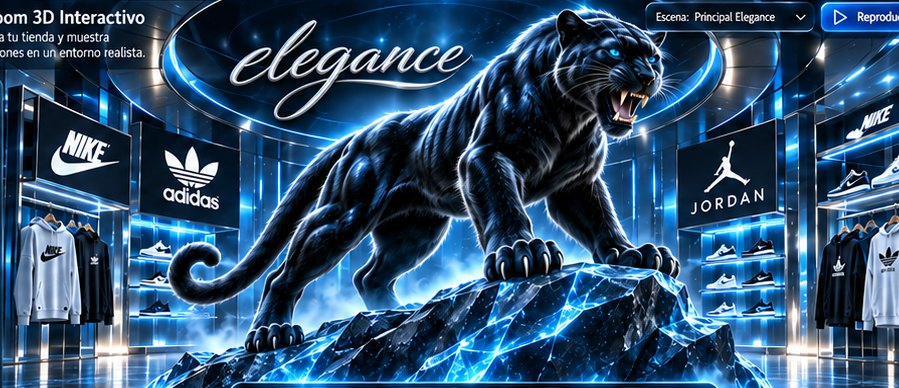
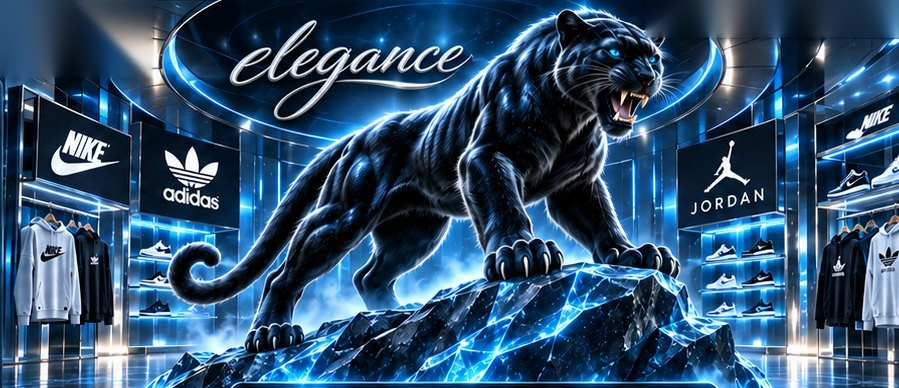
feat: Elegance Showroom V4 polished motion and real catalog controls
* feat(showroom): V4 responsive moving panther details, licensed sound and real archive brand filters

* fix(showroom): clean embedded screenshot controls while preserving the panther and scene

* test(showroom): check V4 licensed roar controls, real provisional brand filters and mobile layout

* fix(showroom): animation, lighting, and roar feedback in browsers without WebGL

Changed region(s): [[0.0, 0.0, 0.1869, 0.2165], [0.7164, 0.0, 1.0, 0.1237]]

diff --git a/showroom.html b/showroom.html
@@ -27,7 +27,7 @@ main{min-width:0;padding:18px 22px 34px}.topbar{display:flex;align-items:center;
 .catalog-top button,.catalog-filters button,.catalog-pages button{border:1px solid #75bdf6;color:#e2f5ff;background:#103d65;border-radius:10px;min-height:40px;padding:9px 13px;cursor:pointer}
 .catalog-top button:hover,.catalog-filters button:hover,.catalog-pages button:hover{background:#165b8c}
 .catalog-body{padding:14px 18px 20px}
-.catalog-filters{display:grid;grid-template-columns:minmax(160px,2.3fr) minmax(100px,1fr) minmax(100px,1fr) auto;gap:9px;align-items:end}
+.catalog-filters{display:grid;grid-template-columns:minmax(155px,2fr) minmax(100px,1fr) minmax(100px,1fr) minmax(95px,.8fr) auto;gap:9px;align-items:end}
 .catalog-filters label{font-size:11px;color:#bcddf3;display:grid;gap:5px}
 .catalog-filters input,.catalog-filters select{width:100%;min-width:0;padding:10px;border:1px solid #5687b1;background:#091b30;color:#eaf6ff;border-radius:9px;min-height:42px}
 .catalog-notice{font-size:12px;line-height:1.55;color:#a7cde5;margin:13px 0}
@@ -47,6 +47,22 @@ main{min-width:0;padding:18px 22px 34px}.topbar{display:flex;align-items:center;
 @media(max-width:850px){.catalog-results{grid-template-columns:repeat(3,minmax(0,1fr))}}
 @media(max-width:630px){.catalog-drawer{max-height:98dvh;width:100vw;max-width:100vw;border-radius:12px}.catalog-top{padding:10px 12px}.catalog-top h2{font-size:26px}.catalog-body{padding:11px}.catalog-filters{grid-template-columns:1fr 1fr}.catalog-filters label:first-child{grid-column:1/-1}.catalog-results{grid-template-columns:repeat(2,minmax(0,1fr));gap:8px}.catalog-item-main{padding:8px}.catalog-item-main strong{font-size:11px}.catalog-filters button{min-height:42px}}
 @media(prefers-reduced-motion:reduce){.btn3d,.catalog-item{transition:none!important}}
+
+/* V4 – tactile independent controls; same approved composition. */
+.btn3d,.nav button,.preset,.catalog-item-main button{touch-action:manipulation}
+.btn3d:focus-visible,.nav button:focus-visible,.preset:focus-visible,.catalog-item-main button:focus-visible{outline:2px solid #aeeeff;outline-offset:3px}
+.btn3d{transform-style:preserve-3d;box-shadow:inset 0 1px 0 #e4faffae,inset 1px 0 0 #aeedff36,0 4px 0 #08243e,0 8px 12px #0009,0 0 10px #27b7ff22!important}
+.btn3d:hover{transform:translateY(-2px) rotateX(4deg);box-shadow:inset 0 1px 0 #fff,0 6px 0 #08243e,0 11px 17px #000a,0 0 16px #27b7ff7c!important}
+.btn3d:active,.btn3d[aria-pressed="true"]{transform:translateY(3px) rotateX(-2deg);box-shadow:inset 0 3px 9px #000b,0 1px 0 #08243e,0 0 14px #27b7ff7c!important}
+#roar[aria-pressed="true"]{border-color:#e4f6ff;background:linear-gradient(135deg,#4488d2,#164679);animation:roarGlow .46s ease-in-out infinite alternate}
+@keyframes roarGlow{from{filter:brightness(.95)}to{filter:brightness(1.33)}}
+/* Canvas fallback must remain alive when the browser disallows GPU acceleration. */
+.scene-viewport.motion-paused #scene,.scene-viewport.motion-disabled #scene{animation-play-state:paused!important}
+.scene-viewport.roaring.is-fallback #scene{animation:roarShake .16s ease-in-out 13 alternate!important;transform-origin:68% 30%}
+@keyframes roarShake{0%{transform:translate(-.2%,.05%) scale(1.025)}100%{transform:translate(.45%,-.65%) scale(1.045)}}
+.scene-viewport.is-fallback #scene{animation:fallbackLook 4.3s ease-in-out infinite alternate;transform-origin:52% 48%;background-size:105% 105%!important;background-repeat:no-repeat;filter:brightness(1.04) saturate(1.04)}
+@keyframes fallbackLook{0%{transform:scale(1.00) translate(-.25%,.25%);background-position:49% 49%}100%{transform:scale(var(--breath-scale,1.025)) translate(.3%,-.3%);background-position:51% 51%}}
+@media(prefers-reduced-motion:reduce){.scene-viewport.is-fallback #scene,#roar[aria-pressed="true"]{animation:none!important}.btn3d,.nav button,.preset{transition:none!important}}
 </style></head><body>
 <div class="shell">
 <aside class="sidebar"><div class="brand" aria-label="elegance">elegance</div><div class="subbrand">SHOWROOM · ICE EDITION</div>
@@ -62,31 +78,32 @@ main{min-width:0;padding:18px 22px 34px}.topbar{display:flex;align-items:center;
 <button data-panel="Ajustes"><span class="icon">⚙</span>Ajustes</button>
 </nav><div class="sidebar-bottom"><a href="https://elegancemx-14c.pages.dev/?administrador=1" target="_blank" rel="noopener noreferrer">↗ Administrador real</a><a href="https://elegancemx-14c.pages.dev/" target="_blank" rel="noopener noreferrer">↗ Ver tienda</a><small>Vista de diseño aislada · no modifica la tienda</small></div></aside>
 <main>
-<header class="topbar"><label class="search"><span aria-hidden="true">⌕</span><input type="search" id="search" placeholder="Buscar en el panel y las colecciones…" aria-label="Buscar secciones y colecciones"></label><div class="account"><span class="avatar">♜</span><span><b>elegance</b><small>Vista conectada · versión de prueba</small></span></div></header>
+<header class="topbar"><label class="search"><span aria-hidden="true">⌕</span><input type="search" id="search" placeholder="Buscar en el panel y las colecciones…" aria-label="Buscar secciones y colecciones"></label><div class="account"><span class="avatar">♜</span><span><b>elegance</b><small>Escena visual · archivo público</small></span></div></header>
 <section class="stats" aria-label="Estado del catálogo documentado"><div class="stat"><i>▤</i><div><strong><span id="live-total">3,929</span></strong><small>Referencias del archivo</small></div></div><div class="stat"><i>◇</i><div><strong><span id="live-photos">3,909</span></strong><small>Fotografías del archivo</small></div></div><div class="stat"><i>▷</i><div><strong><span id="live-videos">20</span></strong><small>Videos históricos</small></div></div><div class="stat"><i>✓</i><div><strong><span id="live-verified">0</span></strong><small>Artículos verificados</small></div></div></section>
 <div class="workspace"><section class="glass stagecard" aria-label="Escena interactiva">
 <div class="sectionbar"><div><h2>Showroom interactivo</h2><p>Composición aprobada · controles reconstruidos</p></div><div class="stagemenu"><select id="scene-preset" aria-label="Escoger ambiente"><option value="ice">Azul hielo</option><option value="night">Nocturno</option><option value="sunset">Atardecer</option><option value="pearl">Blanco perla</option></select><button id="play" class="btn3d" aria-pressed="true">❚❚ Pausar</button></div></div>
-<div class="scene-viewport" id="view" aria-label="Pantera fotográfica con animación 2.5D y cámara interactiva; usa arrastre o botones para cambiar vista" role="group">
+<div class="scene-viewport" id="view" aria-label="Pantera fotográfica original con deformación animada 2.5D; usa arrastre o botones para variar la perspectiva aproximada" role="group">
 <div class="scene-layer" id="scene-layer"><canvas id="scene" width="900" height="390"></canvas></div>
-<div class="stage-overlay"><div class="overlay-top"><span class="hint"><span class="led"></span> <b>ESCENA ICE</b> · ANIMACIÓN 2.5D</span><span class="hint" id="camera-state">Vista frontal</span></div><div class="overlay-bottom"><div class="group" role="group" aria-label="Ángulos de cámara"><span>Cámara</span><button data-view="front" class="btn3d secondary" aria-pressed="true">Frontal</button><button data-view="left" class="btn3d secondary" aria-pressed="false">Lateral</button><button data-view="high" class="btn3d secondary" aria-pressed="false">Superior</button><button data-view="reset" class="btn3d secondary">⟲</button></div><div class="pulse-label"><span class="led"></span> Arrastra para mover cámara</div></div></div>
+<div class="stage-overlay"><div class="overlay-top"><span class="hint"><span class="led"></span> <b>ESCENA ICE</b> · PANORAMA ANIMADO 2.5D</span><span class="hint" id="camera-state">Vista frontal</span></div><div class="overlay-bottom"><div class="group" role="group" aria-label="Ángulos de cámara"><span>Cámara</span><button data-view="front" class="btn3d secondary" aria-pressed="true">Frontal</button><button data-view="left" class="btn3d secondary" aria-pressed="false">Lateral</button><button data-view="high" class="btn3d secondary" aria-pressed="false">Superior</button><button data-view="reset" class="btn3d secondary">⟲</button></div><div class="pulse-label"><span class="led"></span> Arrastra para mover cámara</div></div></div>
 <div id="statepane" class="statepane" aria-live="polite"><button class="btn3d secondary pane-close" id="pane-close">✕ Volver</button><span class="badge">NAVEGACIÓN FUNCIONAL</span><h3 id="pane-title"></h3><p id="pane-body"></p><div class="pane-tabs" id="pane-actions"></div></div>
 </div>
-<div class="stage-footer"><small id="scene-status">WebGL activo al cargar · composición conservada</small><div class="actions"><button class="btn3d secondary" id="reset">Restablecer</button><button class="btn3d secondary" id="export">Exportar ajustes</button><button class="btn3d" id="admin">↗ Gestionar mercancía</button></div></div>
+<div class="stage-footer"><small id="scene-status">Cargando escena · composición conservada</small><div class="actions"><button class="btn3d secondary" id="reset">Restablecer</button><button class="btn3d secondary" id="export">Exportar ajustes</button><button class="btn3d" id="admin">↗ Gestionar mercancía</button></div></div>
 </section><aside class="glass settings"><div class="settingbox"><h3>AMBIENTE DE ESCENA</h3><div class="presets" role="group" aria-label="Iluminación predefinida"><button class="preset" data-preset="ice" aria-pressed="true">❄ Azul hielo</button><button class="preset" data-preset="night" aria-pressed="false">◕ Nocturno</button><button class="preset" data-preset="sunset" aria-pressed="false">◒ Atardecer</button><button class="preset" data-preset="pearl" aria-pressed="false">◊ Perla</button></div><label class="slider"><span>Iluminación <output id="bright-value">75 %</output></span><input id="bright" type="range" min="30" max="140" value="75"></label><label class="slider"><span>Reflejos <output id="glow-value">60 %</output></span><input id="glow" type="range" min="0" max="100" value="60"></label></div>
-<div class="settingbox"><h3>ANIMACIÓN</h3><div class="controlrow"><span>Respiración 2.5D</span><button class="toggle" id="breathe" aria-pressed="true">Sí</button></div><label class="slider"><span>Amplitud <output id="breathe-value">60 %</output></span><input id="breath-amp" type="range" min="0" max="100" value="60"></label><div class="controlrow"><span>Cámara flotante</span><button class="toggle" id="float" aria-pressed="true">Sí</button></div><div style="margin-top:11px"><button class="btn3d" id="roar" style="width:100%">♪ Prueba de rugido</button></div><p class="tiny-note" style="margin-top:10px">El sonido es sintetizado y la respiración es una simulación sobre la imagen. El rugido y la anatomía 3D reales requieren un modelo de pantera articulado.</p></div>
+<div class="settingbox"><h3>ANIMACIÓN</h3><div class="controlrow"><span>Respiración 2.5D</span><button class="toggle" id="breathe" aria-pressed="true">Sí</button></div><label class="slider"><span>Amplitud <output id="breathe-value">60 %</output></span><input id="breath-amp" type="range" min="0" max="100" value="60"></label><div class="controlrow"><span>Cámara flotante</span><button class="toggle" id="float" aria-pressed="true">Sí</button></div><div style="margin-top:11px"><button class="btn3d" id="roar" style="width:100%" aria-label="Reproducir rugido felino con movimiento de mandíbula" aria-pressed="false">◉ Rugido con movimiento</button></div><p class="tiny-note" style="margin-top:10px">Efecto de rugido de tigre CC0 de <a href="https://sfxmint.com/sounds/short-tiger-roar-01" target="_blank" rel="noopener noreferrer">SFXMint</a>, sincronizado con una deformación visual de la mandíbula. No es un modelo anatómico 3D ni una grabación de esta pantera.</p></div>
 <div class="settingbox"><h3>GUARDAR ESCENA</h3><p class="tiny-note">Los cambios visuales se guardan localmente en este navegador. No modifican ventas, archivos ni credenciales.</p><button class="btn3d secondary" id="save" style="margin-top:11px;width:100%">Guardar vista local</button></div>
 </aside></div>
 <section class="lower"><article class="glass upload"><h3>Añadir fotografías a esta vista</h3><label class="dropzone" id="dropzone" for="files"><span class="cloud">☁</span><b>Seleccionar o arrastrar imágenes</b><small>Vista previa local · no se suben a la tienda</small></label><input id="files" type="file" accept="image/*" multiple><div style="margin-top:7px"><a href="https://elegancemx-14c.pages.dev/?administrador=1" target="_blank" rel="noopener noreferrer" style="font-size:11px">Subir mercancía al administrador real ↗</a></div></article>
 <article class="glass"><h3>Archivos seleccionados <small id="file-count" style="color:#89bfdf;font-weight:400">(0)</small></h3><div class="photos" id="photos"><p class="tiny-note">Aquí aparecerán las imágenes que agregues a la vista previa. Ningún archivo sale de tu dispositivo.</p></div></article>
 <article class="glass"><h3>Colecciones destacadas</h3><div class="collections"><div class="collection"><b>NIKE</b><small>COLECCIÓN</small><button class="btn3d secondary" data-brand="Nike">Explorar →</button></div><div class="collection"><b>adidas</b><small>COLECCIÓN</small><button class="btn3d secondary" data-brand="Adidas">Explorar →</button></div><div class="collection"><b>JORDAN</b><small>COLECCIÓN</small><button class="btn3d secondary" data-brand="Jordan">Explorar →</button></div></div></article></section>
-<p class="lower-footer">ELEGANCE SHOWROOM v3 · Los conteos se actualizan desde los datos públicos del catálogo cuando hay conexión; no son métricas de ventas. Imagen de la pantera: composición Elegance aprobada. No se atribuye inventario comercial a fotografías sin verificar.</p>
+<p class="lower-footer">ELEGANCE SHOWROOM v4 · Los conteos se actualizan desde los datos públicos del catálogo cuando hay conexión; no son métricas de ventas. Imagen de la pantera: composición Elegance aprobada. No se atribuye inventario comercial a fotografías sin verificar.</p>
 </main></div>
+<audio id="roar-audio" preload="none" src="https://sfxmint.com/dl/short-tiger-roar-01.mp3" aria-hidden="true"></audio>
 <dialog class="catalog-drawer" id="catalog-drawer" aria-labelledby="catalog-title">
   <div class="catalog-top"><div><small>ARCHIVO FOTOGRÁFICO REAL · ELEGANCE</small><h2 id="catalog-title">elegance · catálogo</h2></div><button type="button" id="catalog-close" aria-label="Cerrar catálogo">✕ Cerrar</button></div>
   <div class="catalog-body">
     <div class="catalog-filters">
       <label>Buscar por referencia o nombre<input id="catalog-search" type="search" placeholder="Tenis, bolsas, gorras, referencia…"></label>
-      <label>Categoría<select id="catalog-category"><option value="">Todas</option></select></label>
+      <label>Categoría<select id="catalog-category"><option value="">Todas</option></select></label><label>Marca sugerida<select id="catalog-brand"><option value="">Todas</option></select></label>
       <label>Orden<select id="catalog-sort"><option value="new">Más recientes</option><option value="old">Más antiguas</option></select></label>
       <button id="catalog-clear" type="button">Limpiar</button>
     </div>
@@ -108,20 +125,28 @@ let reduced=matchMedia('(prefers-reduced-motion: reduce)').matches;
 let canvas=$('#scene'),gl=canvas.getContext('webgl',{alpha:false,antialias:true,premultipliedAlpha:false}),program=null;
 let renderGL=()=>{},im=new Image(); const mobileView=matchMedia('(max-width:540px)').matches; im.src=mobileView?MOBILE:IMAGE;
 function shader(gl,type,source){let s=gl.createShader(type);gl.shaderSource(s,source);gl.compileShader(s);if(!gl.getShaderParameter(s,gl.COMPILE_STATUS))throw Error(gl.getShaderInfoLog(s));return s}
-function createScene(){if(!gl){canvas.style.backgroundImage=`url(${mobileView?MOBILE:IMAGE})`;$('#scene-status').textContent='Imagen panorámica · WebGL no disponible';return}
+function createScene(){if(!gl){canvas.style.backgroundImage=`url(${mobileView?MOBILE:IMAGE})`;$('#view').classList.add('is-fallback');$('#scene-status').textContent='Modo compatible · animación de cámara disponible';sync();return}
 try{
 const vs=shader(gl,gl.VERTEX_SHADER,`attribute vec2 point;varying vec2 uv;void main(){uv=vec2((point.x+1.)*.5,1.-(point.y+1.)*.5);gl_Position=vec4(point,0.,1.);}`);
 const fs=shader(gl,gl.FRAGMENT_SHADER,`precision highp float;varying vec2 uv;uniform sampler2D imageTex;uniform float t;uniform float breathe;uniform float amp;uniform float glow;uniform float bright;uniform float kind;uniform float roar;uniform float mobile;void main(){
 float chest=exp(-pow((uv.x-(mobile>.5?.48:.49))/.177,2.)-pow((uv.y-(mobile>.5?.39:.49))/.27,2.));
-float head=exp(-pow((uv.x-(mobile>.5?.70:.68))/.115,2.)-pow((uv.y-(mobile>.5?.22:.34))/.145,2.));
+float head=exp(-pow((uv.x-(mobile>.5?.70:.68))/.12,2.)-pow((uv.y-(mobile>.5?.22:.21))/.16,2.));
+float jaw=exp(-pow((uv.x-(mobile>.5?.705:.702))/.078,2.)-pow((uv.y-(mobile>.5?.285:.295))/.062,2.));
+float tail=exp(-pow((uv.x-(mobile>.5?.21:.23))/.115,2.)-pow((uv.y-(mobile>.5?.62:.71))/.09,2.));
 float pulse=sin(t*1.6)*breathe*amp;
-vec2 pos=uv;pos.x-=((uv.x-(mobile>.5?.48:.49))*.022*chest*pulse);pos.y-=.006*chest*pulse+.008*head*roar;
+vec2 pos=uv;
+pos.x-=((uv.x-(mobile>.5?.48:.49))*.035*chest*pulse);
+pos.y-=.012*chest*pulse + .006*head*sin(t*.7) + .034*jaw*roar;
+pos.x-=.012*tail*sin(t*1.0);
 pos=clamp(pos,0.,1.);
 vec3 col=texture2D(imageTex,pos).rgb;
 // Illumination is computed in this same image pass; no duplicated panels or overlaid photo.
 float rim=(1.-smoothstep(.1,.95,distance(uv,vec2(.5,.47))));
 col=col*(.40+bright*.008)*vec3(1.+kind*.06,1.-kind*.04,1.-kind*.18);
 col+=vec3(.015,.082,.16)*(glow*.007)*(rim+ .33*sin(t*.7))*1.1;
+float eye=exp(-pow((uv.x-(mobile>.5?.72:.69))/.024,2.)-pow((uv.y-(mobile>.5?.13:.14))/.023,2.));
+float eyelid=pow(max(0.,sin(t*.93+.5)),55.);
+col*=1.-eye*eyelid*.60;
 col=clamp(col,0.,1.);
 gl_FragColor=vec4(col,1.);
 }`);
@@ -131,28 +156,42 @@ let tex=gl.createTexture();gl.bindTexture(gl.TEXTURE_2D,tex);gl.pixelStorei(gl.U
 const uniforms={};for(let name of ['t','breathe','amp','glow','bright','kind','roar','mobile'])uniforms[name]=gl.getUniformLocation(program,name);
 gl.uniform1i(gl.getUniformLocation(program,'imageTex'),0);
 renderGL=(t,roar)=>{gl.viewport(0,0,canvas.width,canvas.height);gl.uniform1f(uniforms.t,t);gl.uniform1f(uniforms.breathe,state.breathe&&!reduced?1:0);gl.uniform1f(uniforms.amp,state.breathAmp/100);gl.uniform1f(uniforms.glow,state.glow);gl.uniform1f(uniforms.bright,state.bright);gl.uniform1f(uniforms.kind,state.preset==='sunset'?1:state.preset==='night'?-1:0);gl.uniform1f(uniforms.roar,roar);gl.uniform1f(uniforms.mobile,mobileView?1:0);gl.drawArrays(gl.TRIANGLES,0,6)};
-$('#scene-status').textContent='WebGL activo · respiración visual · cámara interactiva';
-}catch(e){console.warn('WebGL fallback',e);gl=null;canvas.style.backgroundImage=`url(${mobileView?MOBILE:IMAGE})`;$('#scene-status').textContent='Modo imagen: WebGL no disponible';}
+$('#scene-status').textContent='WebGL activo · animación 2.5D · controles interactivos';
+}catch(e){console.warn('WebGL fallback',e);gl=null;canvas.style.backgroundImage=`url(${mobileView?MOBILE:IMAGE})`;$('#view').classList.add('is-fallback');$('#scene-status').textContent='Modo compatible · animación de cámara disponible';sync();}
 }
-let nowT=0,roarUntil=0,last=0;function tick(ms){let dt=Math.min(.05,(ms-last)/1000||0);last=ms;if(state.playing&&!reduced)nowT+=dt;let roaring=roarUntil>performance.now()?Math.sin(nowT*15.)*.48:0;if(gl)renderGL(nowT,roaring);let floatY=state.float&&state.playing&&!reduced?Math.sin(nowT*.7)*1.3:0;
+let nowT=0,roarUntil=0,last=0;function tick(ms){let dt=Math.min(.05,(ms-last)/1000||0);last=ms;if(state.playing&&!reduced)nowT+=dt;let roarRemain=roarUntil-performance.now();let roaring=roarRemain>0? Math.sin(Math.PI*Math.min(1,Math.max(0,(3200-roarRemain)/3200)))*(.85+.10*Math.sin(nowT*12)):0;if(gl)renderGL(nowT,roaring);let floatY=state.float&&state.playing&&!reduced?Math.sin(nowT*.7)*1.3:0;
 $('#scene-layer').style.transform=`perspective(1200px) rotateX(${state.rotX+floatY}deg) rotateY(${state.rotY}deg) scale(${state.zoom})`;requestAnimationFrame(tick)}
 if(im.complete)createScene();else im.onload=createScene;requestAnimationFrame(tick);
 function setPressed(sel,value){$$(sel).forEach(b=>b.setAttribute('aria-pressed',String(value(b))))}
-function sync(){ $('#scene-preset').value=state.preset;for(const [id,key] of [['#bright','bright'],['#glow','glow'],['#breath-amp','breathAmp']])$(id).value=state[key];$('#bright-value').textContent=state.bright+' %';$('#glow-value').textContent=state.glow+' %';$('#breathe-value').textContent=state.breathAmp+' %';$('#breathe').setAttribute('aria-pressed',String(state.breathe));$('#breathe').textContent=state.breathe?'Sí':'No';$('#float').setAttribute('aria-pressed',String(state.float));$('#float').textContent=state.float?'Sí':'No';$('#play').textContent=state.playing?'❚❚ Pausar':'▶ Reproducir';$('#play').setAttribute('aria-pressed',String(state.playing));setPressed('[data-preset]',b=>b.dataset.preset===state.preset);setPressed('[data-view]',b=>b.dataset.view===state.angle);$('#camera-state').textContent=({'front':'Vista frontal','left':'Vista lateral','high':'Vista superior','reset':'Vista frontal'})[state.angle]||'Cámara libre'}
+function sync(){ $('#scene-preset').value=state.preset;for(const [id,key] of [['#bright','bright'],['#glow','glow'],['#breath-amp','breathAmp']])$(id).value=state[key];$('#bright-value').textContent=state.bright+' %';$('#glow-value').textContent=state.glow+' %';$('#breathe-value').textContent=state.breathAmp+' %';$('#breathe').setAttribute('aria-pressed',String(state.breathe));$('#breathe').textContent=state.breathe?'Sí':'No';$('#float').setAttribute('aria-pressed',String(state.float));$('#float').textContent=state.float?'Sí':'No';$('#play').textContent=state.playing?'❚❚ Pausar':'▶ Reproducir';$('#play').setAttribute('aria-pressed',String(state.playing));setPressed('[data-preset]',b=>b.dataset.preset===state.preset);setPressed('[data-view]',b=>b.dataset.view===state.angle);$('#camera-state').textContent=({'front':'Vista frontal','left':'Perspectiva lateral aproximada','high':'Perspectiva superior aproximada','reset':'Vista frontal'})[state.angle]||'Cámara libre';
+ if(!gl){const level=Math.max(.6,(.40+state.bright*.008)),hue=state.preset==='sunset'?'sepia(.27) hue-rotate(-12deg)':state.preset==='night'?'saturate(.8)':'saturate(1.05)';canvas.style.filter=`brightness(${level}) ${hue}`;canvas.style.setProperty('--breath-scale',String(state.breathe&&state.playing&&!reduced?1+(state.breathAmp/100)*.058:1));$('#view').classList.toggle('motion-disabled',!state.breathe||!state.playing||reduced);} }
 function preset(k){state.preset=k;let values={ice:[75,60],night:[48,88],sunset:[105,32],pearl:[125,22]}[k];[state.bright,state.glow]=values;sync();toast('Ambiente '+({ice:'Azul hielo',night:'Nocturno',sunset:'Atardecer',pearl:'Blanco perla'}[k]));}
 $$('[data-preset]').forEach(b=>b.addEventListener('click',()=>preset(b.dataset.preset)));$('#scene-preset').onchange=e=>preset(e.target.value);
 for(const [id,key] of [['#bright','bright'],['#glow','glow'],['#breath-amp','breathAmp']])$(id).addEventListener('input',e=>{state[key]=Number(e.target.value);sync()});
 for(const [id,key] of [['#breathe','breathe'],['#float','float']])$(id).onclick=()=>{state[key]=!state[key];sync();toast((key==='breathe'?'Respiración':'Cámara flotante')+(state[key]?' activada':' desactivada'))};
-$('#play').onclick=()=>{state.playing=!state.playing;sync()};
-function view(mode){let angles={front:[0,0,1],left:[0,-14,1.035],high:[-12,0,1.035],reset:[0,0,1]};[state.rotX,state.rotY,state.zoom]=angles[mode];state.angle=mode==='reset'?'front':mode;sync()}
+$('#play').onclick=()=>{state.playing=!state.playing;$('#view').classList.toggle('motion-paused',!state.playing);sync()};
+function view(mode){let angles={front:[0,0,1],left:[0,-6,1.018],high:[-5,0,1.018],reset:[0,0,1]};[state.rotX,state.rotY,state.zoom]=angles[mode];state.angle=mode==='reset'?'front':mode;sync()}
 $$('[data-view]').forEach(b=>b.onclick=()=>view(b.dataset.view));
 $('#reset').onclick=()=>{state={...init};sync();toast('Escenario original restaurado; controles y distribución intactos.')};
 $('#save').onclick=()=>{localStorage.setItem(STORE,JSON.stringify({...state,playing:true}));toast('Preferencias visuales guardadas en este navegador.')};
-$('#export').onclick=()=>{const a=document.createElement('a');const blob=new Blob([JSON.stringify({version:2,scene:state,notice:'Valores de previsualización, no inventario real'},null,2)],{type:'application/json'});a.href=URL.createObjectURL(blob);a.download='elegance-escena-v2.json';document.body.append(a);a.click();a.remove();setTimeout(()=>URL.revokeObjectURL(a.href),2000);toast('Ajustes de escena exportados en JSON.')};
+$('#export').onclick=()=>{const a=document.createElement('a');const blob=new Blob([JSON.stringify({version:4,scene:state,notice:'Valores de previsualización, no inventario real'},null,2)],{type:'application/json'});a.href=URL.createObjectURL(blob);a.download='elegance-escena-v4.json';document.body.append(a);a.click();a.remove();setTimeout(()=>URL.revokeObjectURL(a.href),2000);toast('Ajustes de escena exportados en JSON.')};
 $('#admin').onclick=()=>window.open(REAL+'?administrador=1','_blank','noopener,noreferrer');
-// Synthesized audio is labelled as a proof of concept. The final photorealistic roar needs licensed sound and a rigged model.
-$('#roar').onclick=()=>{roarUntil=performance.now()+1050;let A=window.AudioContext||window.webkitAudioContext;if(!A){toast('Audio no disponible; se reproduce únicamente el gesto visual.');return}try{let ctx=new A();let len=Math.floor(ctx.sampleRate*1.0),buf=ctx.createBuffer(1,len,ctx.sampleRate),chan=buf.getChannelData(0);for(let i=0;i<len;i++){let t=i/ctx.sampleRate,env=Math.pow(Math.sin(Math.PI*t),1.5);chan[i]=env*((Math.random()*2-1)*.18+.22*Math.sin(t*110*Math.PI)+.13*Math.sin(t*164*Math.PI))}let node=ctx.createBufferSource();node.buffer=buf;let filter=ctx.createBiquadFilter();filter.type='lowpass';filter.frequency.value=370;let gain=ctx.createGain();gain.gain.value=.65;node.connect(filter);filter.connect(gain);gain.connect(ctx.destination);node.start();node.onended=()=>ctx.close()}catch(e){console.warn(e)}toast('Rugido sintetizado de prueba. Pendiente: audio felino real y mandíbula articulada.')};
-let dragging=false,startX=0,startY=0,rx=0,ry=0;const stage=$('#view');stage.addEventListener('pointerdown',e=>{if(e.target.closest('button'))return;dragging=true;startX=e.clientX;startY=e.clientY;rx=state.rotX;ry=state.rotY;stage.setPointerCapture(e.pointerId)});stage.addEventListener('pointermove',e=>{if(!dragging)return;state.rotY=Math.max(-20,Math.min(20,ry+(e.clientX-startX)*.06));state.rotX=Math.max(-15,Math.min(15,rx-(e.clientY-startY)*.04));state.angle='free';sync()});stage.addEventListener('pointerup',()=>dragging=false);stage.addEventListener('pointercancel',()=>dragging=false);
+// User-triggered public-domain big-cat audio. Browsers prevent automatic audio; click enables it.
+const roarAudio=$('#roar-audio');roarAudio.volume=.68;
+let roarTimeout=null;
+function stopRoar(){roarUntil=0;$('#view').classList.remove('roaring');$('#roar').setAttribute('aria-pressed','false');$('#roar').textContent='◉ Rugido con movimiento';clearTimeout(roarTimeout)}
+roarAudio.addEventListener('ended',stopRoar);
+roarAudio.addEventListener('error',()=>{stopRoar();toast('No se pudo cargar el rugido felino. Revisa tu conexión a internet.')});
+$('#roar').onclick=async()=>{
+ if(roarAudio&&!roarAudio.paused){roarAudio.pause();roarAudio.currentTime=0;stopRoar();return}
+ if(!state.playing){state.playing=true;sync()}
+ roarUntil=performance.now()+3200;$('#view').classList.add('roaring');
+ $('#roar').setAttribute('aria-pressed','true');$('#roar').textContent='■ Detener rugido';
+ try{roarAudio.currentTime=0;await roarAudio.play();}
+ catch(error){stopRoar();toast('Tu navegador bloqueó o no pudo cargar el audio. Prueba otra vez con conexión.');return}
+ roarTimeout=setTimeout(stopRoar,3500);
+};
+let dragging=false,startX=0,startY=0,rx=0,ry=0;const stage=$('#view');stage.addEventListener('pointerdown',e=>{if(e.target.closest('button'))return;dragging=true;startX=e.clientX;startY=e.clientY;rx=state.rotX;ry=state.rotY;stage.setPointerCapture(e.pointerId)});stage.addEventListener('pointermove',e=>{if(!dragging)return;state.rotY=Math.max(-7,Math.min(7,ry+(e.clientX-startX)*.025));state.rotX=Math.max(-6,Math.min(6,rx-(e.clientY-startY)*.018));state.angle='free';sync()});stage.addEventListener('pointerup',()=>dragging=false);stage.addEventListener('pointercancel',()=>dragging=false);
 let paneText={Dashboard:'Vista de control del archivo fotográfico. Los datos de producción y ventas requieren conexión al servicio; aquí no se presentan cifras ficticias.',Productos:'Gestiona mercancía desde el administrador protegido. Puedes cargar imágenes de prueba en esta maqueta, pero solo el administrador real guarda en ImageKit.',Catálogo:'Abre el catálogo público para buscar, filtrar y consultar referencias. Los productos no verificados se tratan como fotografías del archivo.',Marcas:'Nike, Adidas y Jordan son colecciones visuales. La marca y autenticidad de cada artículo deben verificarse antes de publicarlos como producto.',Categorías:'Explora tenis, ropa, gorras, bolsas, accesorios y otras categorías desde el catálogo real.',Multimedia:'El archivo documentado incluye 3,909 fotografías y 20 videos a la revisión del 20 de octubre de 2026.',Pedidos:'El catálogo público permite recopilar referencias para consulta. No se incluyen pedidos ni ventas ficticias.',Ajustes:'Modifica luz, cámara, movimiento y guarda los ajustes de esta vista. La publicación requiere integrar el módulo con el sitio seguro.'};
 function showPane(name){if(name==='Showroom'){hidePane();return}$$('.nav button').forEach(b=>{let active=b.dataset.panel===name;b.classList.toggle('active',active);if(active)b.setAttribute('aria-current','page');else b.removeAttribute('aria-current')});$('#pane-title').textContent=name;$('#pane-body').textContent=paneText[name]||'';$('#pane-actions').replaceChildren();for(let [label,url] of [['Abrir tienda',REAL],['Ir al administrador',REAL+'?administrador=1']]){let a=document.createElement('a');a.className='btn3d secondary';a.textContent=label+' ↗';a.href=url;a.target='_blank';a.rel='noopener noreferrer';$('#pane-actions').append(a)}$('#statepane').classList.add('open')}
 function hidePane(){$('#statepane').classList.remove('open');$$('.nav button').forEach(b=>{let a=b.dataset.panel==='Showroom';b.classList.toggle('active',a);if(a)b.setAttribute('aria-current','page');else b.removeAttribute('aria-current')})}
@@ -165,28 +204,34 @@ $('#files').onchange=e=>addPhotos(e.target.files);$('#dropzone').addEventListene
 window.addEventListener('pagehide',()=>photos.forEach(f=>URL.revokeObjectURL(f.url)));sync();
 
 // REAL IMAGEKIT PHOTO CATALOG: reads public publication files only; never sends administrator credentials.
-const catalog = {loaded:false,loading:null,items:[],filtered:[],search:'',category:'',sort:'new',page:0,selected:new Set(),labels:new Map(),categories:new Map(),shown:24};
+const catalog = {loaded:false,loading:null,items:[],filtered:[],search:'',category:'',brand:'',sort:'new',page:0,selected:new Set(),labels:new Map(),categories:new Map(),brandHints:new Map(),shown:24};
+try {const saved=JSON.parse(localStorage.getItem('elegance_showroom_refs_v4')||'[]');if(Array.isArray(saved))catalog.selected=new Set(saved.filter(x=>typeof x==='string'&&x.length<100).slice(0,150));}catch{}
+function persistRefs(){try{localStorage.setItem('elegance_showroom_refs_v4',JSON.stringify([...catalog.selected].slice(0,150)))}catch{}}
 const $cat=id=>document.getElementById(id);
 const VALID_CATEGORIES=['Tenis','Bolsas','Ropa','Playeras','Gorras','Pantalones','Accesorios','Joyería','Relojes','Lentes','Fragancias','Calzado','Vestidos','Lencería','Cinturones','Buckets','Memorias'];
 const safeURL=m=>{try{const u=new URL(m.url);return u.protocol==='https:'&&u.hostname==='ik.imagekit.io'&&u.pathname.startsWith('/elegancemx/elegance/products/')?u.href:null}catch{return null}};
 const clean=x=>String(x||'').slice(0,180);
-const previewFallback=()=>{catalog.loaded=false;$cat('catalog-status').textContent='El archivo remoto no pudo recuperarse. Puedes consultar el catálogo y administrar mercancía desde los enlaces oficiales.';
+const previewFallback=()=>{catalog.loaded=false;$cat('catalog-status').textContent='No se pudo recuperar el archivo remoto. Puedes abrir el catálogo o el administrador desde los enlaces oficiales.';
   $cat('catalog-results').innerHTML='<p class="catalog-empty">No se pudo cargar el archivo. La tienda oficial sigue disponible mediante el botón superior.</p>';};
 async function loadCatalog(){
  if(catalog.loaded)return;
  if(catalog.loading)return catalog.loading;
  $cat('catalog-status').textContent='Conectando con el archivo fotográfico publicado…';
  catalog.loading=(async()=>{
-  const paths=['data/imagekit-media.json','data/auto-categories.json','data/auto-categories-summary.json','data/name-drafts.json'];
+  const paths=['data/imagekit-media.json','data/auto-categories.json','data/auto-categories-summary.json','data/name-drafts.json','data/dynamic-sections.json'];
   const origin = location.protocol==='file:'?'https://elegancemx-14c.pages.dev/':'./';
   const responses=await Promise.all(paths.map(p=>fetch(origin+p,{cache:'no-store'})));
   if(!responses[0].ok||!responses[1].ok)throw Error('No disponibles');
-  const [media,routes,summary,names]=await Promise.all(responses.map(async r=>r.ok?r.json():null));
+  const [media,routes,summary,names,sections]=await Promise.all(responses.map(async r=>r.ok?r.json():null));
   if(!Array.isArray(media)||!Array.isArray(routes))throw Error('Formato del archivo inválido');
   catalog.categories=new Map(routes.filter(r=>r?.fileId&&typeof r.category==='string').map(r=>[r.fileId,r.category]));
   catalog.labels=new Map((names?.records||[]).filter(r=>r?.fileId&&r.nameSuggestion).map(r=>[r.fileId,clean(r.nameSuggestion)]));
-  catalog.items=media.filter(x=>/^image\//.test(x.mime||'')&&safeURL(x)).map(x=>({fileId:x.fileId,url:safeURL(x),createdAt:x.createdAt||'',category:catalog.categories.get(x.fileId)||'',name:catalog.labels.get(x.fileId)||x.filePath?.split('/').pop()||'Referencia fotográfica',mime:x.mime}));
+  catalog.brandHints=new Map((sections?.verified===false&&Array.isArray(sections.assignments)?sections.assignments:[]).filter(x=>x.fileId&&x.brand&&x.verifiedBrand===false).map(x=>[x.fileId,x.brand]));
+  const brands=[...new Set([...catalog.brandHints.values()])].sort((a,b)=>a.localeCompare(b,'es'));
+  $cat('catalog-brand').replaceChildren(new Option('Todas',''),...brands.map(x=>new Option(x,x))); 
+  catalog.items=media.filter(x=>/^image\//.test(x.mime||'')&&safeURL(x)).map(x=>({fileId:x.fileId,url:safeURL(x),createdAt:x.createdAt||'',category:catalog.categories.get(x.fileId)||'',name:catalog.labels.get(x.fileId)||x.filePath?.split('/').pop()||'Referencia fotográfica',brandHint:catalog.brandHints.get(x.fileId)||'',mime:x.mime}));
   catalog.loaded=true;
+  $cat('catalog-copy').disabled=!catalog.selected.size; $cat('catalog-copy').textContent='Copiar referencias seleccionadas ('+catalog.selected.size+')';
   let unique=new Set(catalog.items.map(x=>x.category).filter(Boolean));
   $cat('catalog-category').replaceChildren(new Option('Todas',''),...[...unique].sort().map(c=>new Option(c,c)));
   const count=Number(summary?.photoCount)||catalog.items.length;
@@ -194,14 +239,14 @@ async function loadCatalog(){
   $cat('live-total').textContent=media.length.toLocaleString('es-MX');
   $cat('live-videos').textContent=media.filter(x=>/^video\//.test(x.mime||'')).length.toLocaleString('es-MX');
   const assigned=Number(summary?.autoAssignedPhotos)||0;
-  $cat('catalog-status').textContent=`${catalog.items.length.toLocaleString('es-MX')} fotografías publicadas en el archivo · ${assigned.toLocaleString('es-MX')} categorías sugeridas automáticamente. Fotografías no equivalen a artículos comprobados.`;
+  $cat('catalog-status').textContent=`${catalog.items.length.toLocaleString('es-MX')} fotografías del archivo · ${assigned.toLocaleString('es-MX')} categorías sugeridas por IA. La marca es provisional y no certifica autenticidad.`;
   catalogFilter();
  })().catch(e=>{console.warn('Catálogo',e);previewFallback()}).finally(()=>{catalog.loading=null});
  return catalog.loading;
 }
 function catalogFilter(){
  const q=catalog.search.trim().toLocaleLowerCase('es-MX');
- catalog.filtered=catalog.items.filter(x=>(!catalog.category||x.category===catalog.category)&&(!q||[x.name,x.fileId,x.category].join(' ').toLocaleLowerCase('es-MX').includes(q)));
+ catalog.filtered=catalog.items.filter(x=>(!catalog.category||x.category===catalog.category)&&(!catalog.brand||x.brandHint.toLocaleLowerCase('es-MX')===catalog.brand.toLocaleLowerCase('es-MX'))&&(!q||[x.name,x.fileId,x.category,x.brandHint].join(' ').toLocaleLowerCase('es-MX').includes(q)));
  catalog.filtered.sort((a,b)=>catalog.sort==='old'?String(a.createdAt).localeCompare(String(b.createdAt)):String(b.createdAt).localeCompare(String(a.createdAt)));
  const pages=Math.max(1,Math.ceil(catalog.filtered.length/catalog.shown));catalog.page=Math.max(0,Math.min(catalog.page,pages-1));
  const grid=$cat('catalog-results');grid.replaceChildren();
@@ -211,34 +256,36 @@ function catalogFilter(){
   const img=document.createElement('img');img.src=x.url;img.loading='lazy';img.alt=clean(x.name);img.decoding='async';
   const main=document.createElement('div');main.className='catalog-item-main';
   const name=document.createElement('strong');name.textContent=clean(x.name);
-  const cat=document.createElement('span');cat.className='category';cat.textContent=x.category||'Pendiente de clasificar';
+  const cat=document.createElement('span');cat.className='category';cat.textContent=(x.category||'Pendiente de clasificar')+(x.brandHint?' · '+x.brandHint+' (marca sugerida, no verificada)':'');
   const id=document.createElement('small');id.textContent='Referencia: '+x.fileId.slice(-12);
   const btn=document.createElement('button');btn.type='button';btn.dataset.ref=x.fileId;const selected=catalog.selected.has(x.fileId);btn.textContent=selected?'✓ En consultas':'＋ Añadir a consultas';btn.setAttribute('aria-pressed',String(selected));
-  btn.onclick=()=>{catalog.selected.has(x.fileId)?catalog.selected.delete(x.fileId):catalog.selected.add(x.fileId);btn.textContent=catalog.selected.has(x.fileId)?'✓ En consultas':'＋ Añadir a consultas';btn.setAttribute('aria-pressed',String(catalog.selected.has(x.fileId)));$cat('catalog-copy').disabled=!catalog.selected.size;$cat('catalog-copy').textContent='Copiar referencias seleccionadas ('+catalog.selected.size+')';};
+  btn.onclick=()=>{if(!catalog.selected.has(x.fileId)&&catalog.selected.size>=150){toast('Límite: 150 referencias por consulta.');return;}catalog.selected.has(x.fileId)?catalog.selected.delete(x.fileId):catalog.selected.add(x.fileId);persistRefs();btn.textContent=catalog.selected.has(x.fileId)?'✓ En consultas':'＋ Añadir a consultas';btn.setAttribute('aria-pressed',String(catalog.selected.has(x.fileId)));$cat('catalog-copy').disabled=!catalog.selected.size;$cat('catalog-copy').textContent='Copiar referencias seleccionadas ('+catalog.selected.size+')';};
   main.append(name,cat,id,btn);article.append(img,main);grid.append(article);
  });
  $cat('catalog-page').textContent=`${catalog.filtered.length.toLocaleString('es-MX')} fotos · página ${catalog.page+1} de ${pages}`;
  $cat('catalog-prev').disabled=catalog.page===0;$cat('catalog-next').disabled=catalog.page>=pages-1;
 }
-async function showCatalog(category='',query=''){
+async function showCatalog(category='',query='',brand=''){
   const dialog=$cat('catalog-drawer');if(!dialog.open)dialog.showModal();
   if(category){catalog.category=category;$cat('catalog-category').value=category}
+  catalog.brand=brand;$cat('catalog-brand').value=brand;
   if(query){catalog.search=query;$cat('catalog-search').value=query}
   await loadCatalog();
-  if(catalog.loaded){$cat('catalog-category').value=catalog.category;catalog.page=0;catalogFilter();}
+  if(catalog.loaded){$cat('catalog-category').value=catalog.category;$cat('catalog-brand').value=catalog.brand;catalog.page=0;catalogFilter();}
 }
 $cat('catalog-close').onclick=()=>$cat('catalog-drawer').close();
 $cat('catalog-search').oninput=e=>{catalog.search=e.target.value;catalog.page=0;if(catalog.loaded)catalogFilter()};
 $cat('catalog-category').onchange=e=>{catalog.category=e.target.value;catalog.page=0;if(catalog.loaded)catalogFilter()};
+$cat('catalog-brand').onchange=e=>{catalog.brand=e.target.value;catalog.page=0;if(catalog.loaded)catalogFilter()};
 $cat('catalog-sort').onchange=e=>{catalog.sort=e.target.value;catalog.page=0;if(catalog.loaded)catalogFilter()};
-$cat('catalog-clear').onclick=()=>{catalog.search='';catalog.category='';catalog.sort='new';catalog.page=0;$cat('catalog-search').value='';$cat('catalog-category').value='';$cat('catalog-sort').value='new';if(catalog.loaded)catalogFilter()};
+$cat('catalog-clear').onclick=()=>{catalog.search='';catalog.category='';catalog.brand='';catalog.sort='new';catalog.page=0;$cat('catalog-search').value='';$cat('catalog-category').value='';$cat('catalog-brand').value='';$cat('catalog-sort').value='new';if(catalog.loaded)catalogFilter()};
 $cat('catalog-prev').onclick=()=>{if(catalog.page>0){catalog.page--;catalogFilter();$cat('catalog-body')?.scrollIntoView({block:'start'})}};
 $cat('catalog-next').onclick=()=>{catalog.page++;catalogFilter();$cat('catalog-body')?.scrollIntoView({block:'start'})};
 $cat('catalog-copy').onclick=async()=>{const text=['Consulta de referencias · elegance',...catalog.selected].join('\n');try{await navigator.clipboard.writeText(text);toast('Referencias copiadas al portapapeles.')}catch{toast('No se pudo copiar; usa el navegador con HTTPS.')}};
 // Capturing click listeners route real categories and collections without running the old placeholder pane.
-const catalogSections=new Set(['Catálogo','Productos','Categorías','Marcas','Multimedia','Pedidos']);
-document.querySelectorAll('.nav button').forEach(b=>b.addEventListener('click',e=>{const k=b.dataset.panel;if(!catalogSections.has(k))return;e.stopImmediatePropagation();if(k==='Productos')window.open(REAL+'?administrador=1','_blank','noopener,noreferrer');else if(k==='Pedidos')window.open(REAL,'_blank','noopener,noreferrer');else if(k==='Multimedia')window.open(REAL+'archivo.html#recovery-videos','_blank','noopener,noreferrer');else showCatalog();},true));
-document.querySelectorAll('[data-brand]').forEach(b=>b.addEventListener('click',e=>{e.stopImmediatePropagation();showCatalog('',b.dataset.brand)},true));
+const catalogSections=new Set(['Catálogo','Productos','Categorías','Marcas','Multimedia','Pedidos','Dashboard','Ajustes']);
+document.querySelectorAll('.nav button').forEach(b=>b.addEventListener('click',e=>{const k=b.dataset.panel;if(!catalogSections.has(k))return;e.stopImmediatePropagation();if(k==='Productos')window.open(REAL+'?administrador=1','_blank','noopener,noreferrer');else if(k==='Pedidos'){showCatalog();$cat('catalog-status').textContent='Tus referencias para consulta se marcan con el botón Añadir a consultas y pueden copiarse para pedir disponibilidad.';}else if(k==='Multimedia')window.open(REAL+'archivo.html#recovery-videos','_blank','noopener,noreferrer');else if(k==='Ajustes'){$('.settings').scrollIntoView({behavior:'smooth',block:'center'});$('#bright').focus();toast('Ajusta la iluminación, la animación y las vistas desde estos controles.')}else if(k==='Dashboard'){showPane('Dashboard');$('#pane-title').textContent='Estado real del archivo';$('#pane-body').textContent=`${$('#live-total').textContent} referencias · ${$('#live-photos').textContent} fotografías · ${$('#live-videos').textContent} videos. La cantidad de productos comerciales confirmados sigue siendo cero hasta que haya validación del administrador.`;const action=document.createElement('button');action.type='button';action.className='btn3d';action.textContent='Examinar fotografías';action.onclick=()=>{hidePane();showCatalog()};$('#pane-actions').replaceChildren(action);}else showCatalog();},true));
+document.querySelectorAll('[data-brand]').forEach(b=>b.addEventListener('click',e=>{e.stopImmediatePropagation();showCatalog('','',b.dataset.brand)},true));
 $cat('search').addEventListener('keydown',e=>{if(e.key==='Enter'){e.stopImmediatePropagation();e.preventDefault();showCatalog('',e.target.value.trim())}},true);
 // Filter category query is always a visual suggestion, not proof of product availability.
 window.addEventListener('offline',()=>toast('Sin conexión. Los ajustes visuales funcionan, pero el archivo remoto requiere internet.'));

diff --git a/tests/showroom-v4.spec.js b/tests/showroom-v4.spec.js
@@ -1,0 +1,38 @@
+const {test,expect}=require('@playwright/test');
+test('V4 keeps approved identity and provides licensed optional roar', async ({page})=>{
+ await page.goto('/showroom.html');
+ await expect(page.locator('.brand')).toHaveText('elegance');
+ await expect(page.locator('#roar-audio')).toHaveAttribute('src','https://sfxmint.com/dl/short-tiger-roar-01.mp3');
+ await expect(page.locator('#roar')).toHaveText(/Rugido/);
+ await page.locator('[data-preset="night"]').click();
+ await expect(page.locator('[data-preset="night"]')).toHaveAttribute('aria-pressed','true');
+ await page.locator('[data-view="left"]').click();
+ await expect(page.locator('#camera-state')).toContainText('aproximada');
+ await page.locator('#play').click();
+ await expect(page.locator('#play')).toHaveAttribute('aria-pressed','false');
+ await page.locator('#reset').click();
+ await expect(page.locator('#bright')).toHaveValue('75');
+});
+test('V4 public brand suggestions are clearly unverified and filter photos', async ({page})=>{
+ await page.goto('/showroom.html');
+ await page.locator('[data-panel="Catálogo"]').click();
+ await expect(page.locator('.catalog-item').first()).toBeVisible({timeout:25000});
+ const items=await page.locator('#catalog-brand option').count();
+ expect(items).toBeGreaterThan(1);
+ const selected=await page.locator('#catalog-brand option').nth(1).getAttribute('value');
+ await page.locator('#catalog-brand').selectOption(selected);
+ await expect(page.locator('#catalog-drawer')).toBeVisible();
+ await expect(page.locator('.catalog-item').first()).toBeVisible();
+ await expect(page.locator('.catalog-item .category').first()).toContainText(/sugerida, no verificada/);
+ await page.locator('#catalog-clear').click();
+ await expect(page.locator('#catalog-brand')).toHaveValue('');
+});
+test('V4 mobile scene and filters have no overflow', async ({page})=>{
+ await page.setViewportSize({width:390,height:844});
+ await page.goto('/showroom.html');
+ await expect(page.locator('#view')).toBeVisible();
+ expect(await page.evaluate(()=>document.documentElement.scrollWidth<=innerWidth)).toBeTruthy();
+ await page.locator('[data-panel="Catálogo"]').click();
+ await expect(page.locator('#catalog-drawer')).toBeVisible();
+ expect(await page.evaluate(()=>document.documentElement.scrollWidth<=innerWidth)).toBeTruthy();
+});
